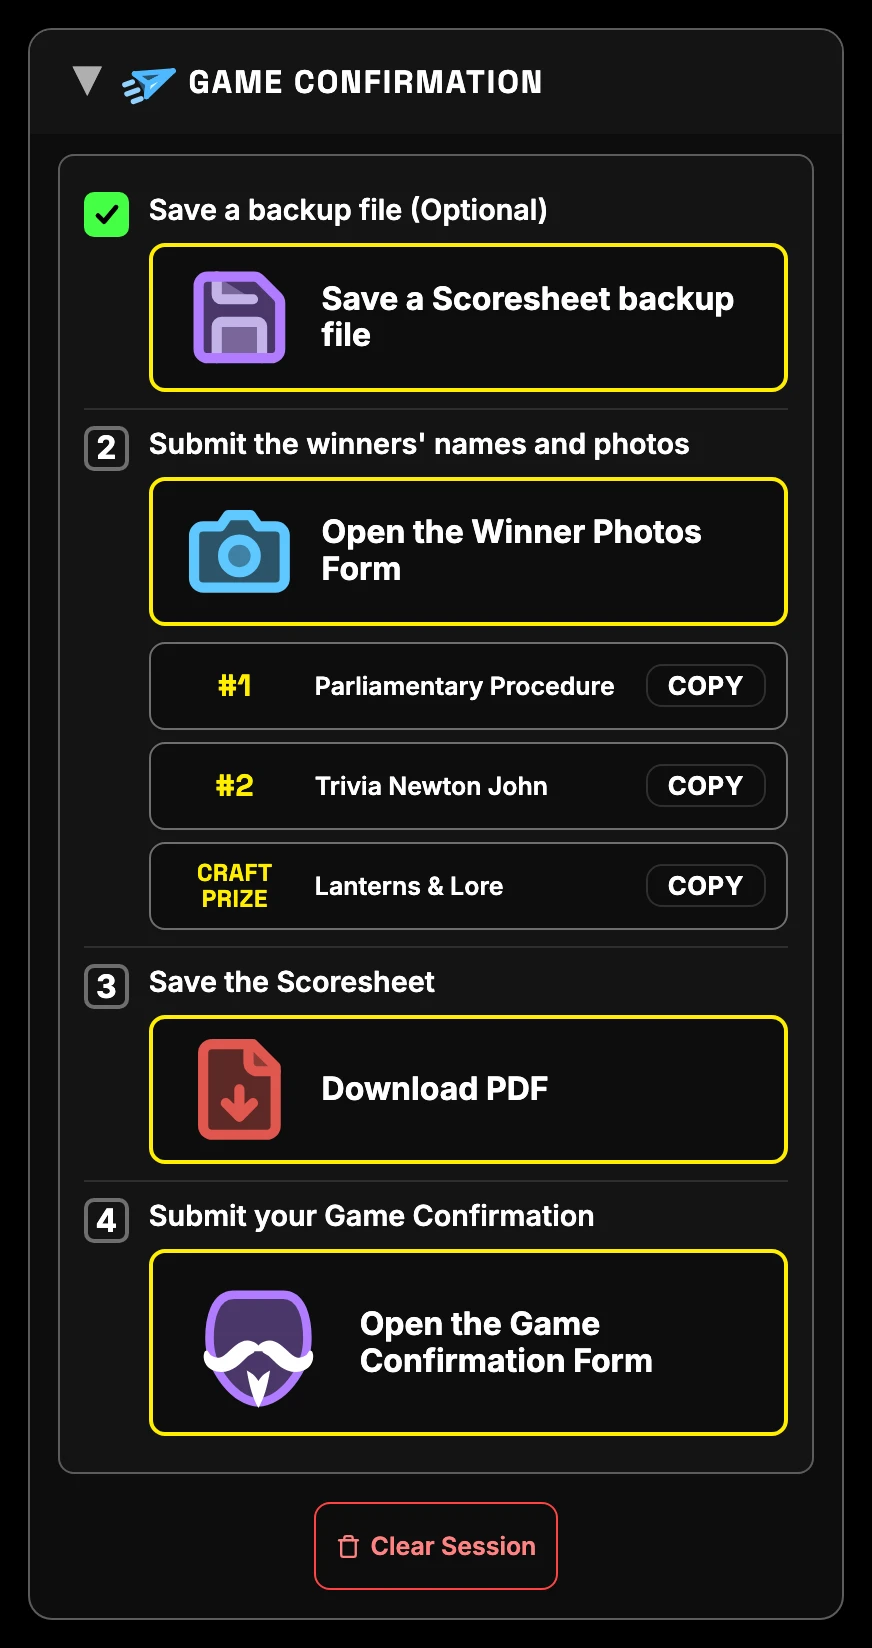
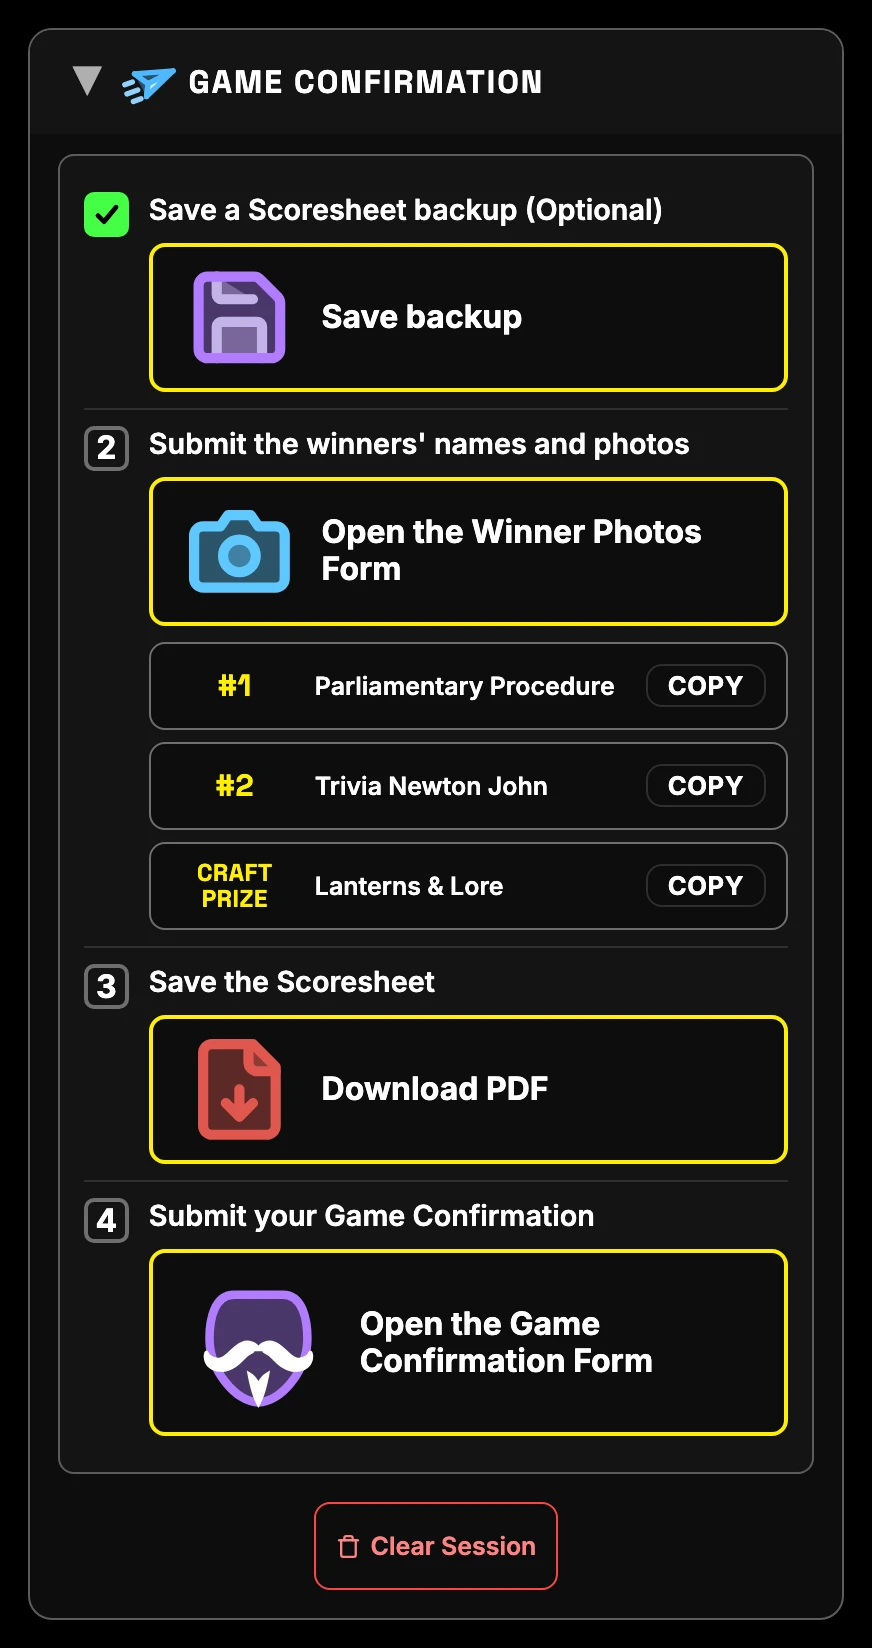
v22.74 Step 1 renamed Save a Scoresheet backup with a Save backup button, FAQ v1.75 screenshots

Changed region(s): [[0.2787, 0.1238, 0.836, 0.2166]]

diff --git a/js/app.js b/js/app.js
@@ -69,8 +69,8 @@ const FIELD_MAX = {
   timezone: 64,
   locale: 35,
 };
-const APP_VERSION = "v22.73"; // #Version Number — bump this manually when you release a new build
-const APP_VERSION_DATE = "Nov 22, 2026 4:48 AM"; // #Version Date — bump alongside APP_VERSION so folks can spot a stale build
+const APP_VERSION = "v22.74"; // #Version Number — bump this manually when you release a new build
+const APP_VERSION_DATE = "Nov 22, 2026 5:01 AM"; // #Version Date — bump alongside APP_VERSION so folks can spot a stale build
 // version.json (repo root) mirrors these two — see checkForUpdate() below for why, and bump it
 // in the same commit as these two or the update-available check starts lying: it'd either miss
 // a real new release (version.json still saying the old version) or nag a host running the
@@ -1109,7 +1109,7 @@ let finishDone = new Set();
 const FINISH_PHOTOS_URL = "https://form.jotform.com/263015326852050";
 const FINISH_CONFIRM_URL = "https://app.jotform.com/261954293403156";
 const FINISH_STEPS = [
-  { k: "backup", label: "Save a backup file (Optional)" },
+  { k: "backup", label: "Save a Scoresheet backup (Optional)" },
   { k: "photos", label: "Submit the winners' names and photos" },
   { k: "pdf", label: "Save the Scoresheet" },
   { k: "confirm", label: "Submit your Game Confirmation" },
@@ -2789,7 +2789,7 @@ function adjPts(ti, d) {
 function finishActionHtml(k) {
   const rect = (icon, label, sub) =>
     `${icon}<span class="finish-rect-text"><span class="finish-rect-label">${label}</span>${sub ? `<span class="finish-rect-sub">${sub}</span>` : ""}</span>`;
-  if (k === "backup") return `<button class="btn finish-rect" onclick="saveToFile()" title="Save a Scoresheet backup file" aria-label="Save a Scoresheet backup file">${rect(ICON_SAVE, "Save a Scoresheet backup file")}</button>`;
+  if (k === "backup") return `<button class="btn finish-rect" onclick="saveToFile()" title="Save backup" aria-label="Save backup">${rect(ICON_SAVE, "Save backup")}</button>`;
   if (k === "pdf") return `<button class="btn finish-rect" onclick="exportPDF()" title="Download PDF" aria-label="Download PDF">${rect(ICON_PDF, "Download PDF")}</button>`;
   if (k === "confirm")
     return `<a class="btn finish-rect jd-upload-btn" href="${FINISH_CONFIRM_URL}" target="_blank" rel="noopener noreferrer" title="Game Confirmation" aria-label="Game Confirmation" onclick="markFinish('confirm')">${rect(ICON_FAWKES, "Open the Game Confirmation Form")}</a>`;

diff --git a/index.html b/index.html
@@ -109,7 +109,7 @@
     </div>
     </div>
     <div class="settings-panel-foot">
-    <div class="settings-meta"><span class="settings-version" id="versionLabel"></span><details class="settings-about"><summary>What's new</summary><div class="about-ver"><b>v22.73</b><ul><li>Game Confirmation: the step 3 button is now simply "Download PDF".</li></ul></div><div class="about-ver"><b>v22.72</b><ul><li>Game Confirmation: the #1/#2/Craft Prize labels moved slightly left, and the backup floppy shows its silver strokes under the purple outline.</li></ul></div><div class="about-ver"><b>v22.71</b><ul><li>Game Confirmation: the subtitle under each step is gone, so the list is shorter.</li></ul></div></details><span class="settings-disclaimer"><svg class="icon-ui" viewBox="0 0 24 24" aria-hidden="true" focusable="false"><path d="m21.73 18-8-14a2 2 0 0 0-3.48 0l-8 14A2 2 0 0 0 4 21h16a2 2 0 0 0 1.73-3"/><path d="M12 9v4"/><path d="M12 17h.01"/></svg> Built with Anthropic's Claude AI — double-check scores &amp; banter yourself.</span></div>
+    <div class="settings-meta"><span class="settings-version" id="versionLabel"></span><details class="settings-about"><summary>What's new</summary><div class="about-ver"><b>v22.74</b><ul><li>Game Confirmation: step 1 is now "Save a Scoresheet backup (Optional)" with a "Save backup" button.</li></ul></div><div class="about-ver"><b>v22.73</b><ul><li>Game Confirmation: the step 3 button is now simply "Download PDF".</li></ul></div><div class="about-ver"><b>v22.72</b><ul><li>Game Confirmation: the #1/#2/Craft Prize labels moved slightly left, and the backup floppy shows its silver strokes under the purple outline.</li></ul></div></details><span class="settings-disclaimer"><svg class="icon-ui" viewBox="0 0 24 24" aria-hidden="true" focusable="false"><path d="m21.73 18-8-14a2 2 0 0 0-3.48 0l-8 14A2 2 0 0 0 4 21h16a2 2 0 0 0 1.73-3"/><path d="M12 9v4"/><path d="M12 17h.01"/></svg> Built with Anthropic's Claude AI — double-check scores &amp; banter yourself.</span></div>
     </div>
   </div>
 </div>

diff --git a/faq/index.html b/faq/index.html
@@ -1327,7 +1327,7 @@
             width="872" height="1648" decoding="async"
             src="screenshots/export-bar.webp"
             data-shot-base="export-bar"
-            alt="Game Confirmation section as one numbered list: Save a backup file (Optional), Submit the winners' names and photos with Copy buttons for the top teams and the craft prize winner under it, Save the Scoresheet, and Submit your Game Confirmation"
+            alt="Game Confirmation section as one numbered list: Save a Scoresheet backup (Optional), Submit the winners' names and photos with Copy buttons for the top teams and the craft prize winner under it, Save the Scoresheet, and Submit your Game Confirmation"
             onerror="faqShotFallback(this,'Game Confirmation section — the four numbered steps')"
           />
         </div>
@@ -1349,7 +1349,7 @@
           <div class="faq-a">
             <p>Scroll to <strong>Game Confirmation</strong> and work down the numbered list:</p>
             <ol>
-              <li><strong>Save a backup file (Optional).</strong> Saves the game so you can reopen it later, just in case. Skip it if you don't need one.</li>
+              <li><strong>Save a Scoresheet backup (Optional).</strong> Saves the game so you can reopen it later, just in case. Skip it if you don't need one.</li>
               <li><strong>Submit the winners' names and photos.</strong> Tap <strong>Open the Winner Photos Form</strong> to open the form in a new tab, then tap <strong>Copy</strong> under it for each team name you need to paste in.</li>
               <li><strong>Save the Scoresheet.</strong> Tap <strong>Download PDF</strong> to save the finished scoresheet to your device.</li>
               <li><strong>Submit your Game Confirmation.</strong> Tap <strong>Open the Game Confirmation Form</strong> to open the form in a new tab, where you submit the PDF you saved.</li>

diff --git a/tests/v22-47.test.js b/tests/v22-47.test.js
@@ -46,7 +46,7 @@ describe("v22.47 closing tutorial steps and FAQ", () => {
       const item = window.document.getElementById("q-how-do-i-wrap-up-a-finished-game");
       assert.ok(item, "wrap-up FAQ item missing");
       const steps = [...item.querySelectorAll("ol > li > strong:first-child")].map((s) => s.textContent);
-      const pos = ["Save a backup file", "Submit the winners", "Save the Scoresheet", "Submit your Game Confirmation"].map((t) => steps.findIndex((x) => x.startsWith(t)));
+      const pos = ["Save a Scoresheet backup", "Submit the winners", "Save the Scoresheet", "Submit your Game Confirmation"].map((t) => steps.findIndex((x) => x.startsWith(t)));
       assert.deepEqual(pos, [0, 1, 2, 3], "steps missing or out of order: " + steps);
       assert.match(item.textContent, /Optional/);
       assert.match(item.textContent, /winners. names and photos/);

diff --git a/tests/v22-54.test.js b/tests/v22-54.test.js
@@ -24,6 +24,6 @@ describe("v22.54 Game Submission section", () => {
     const steps = [...body.querySelectorAll("ol.finish-list > li")];
     assert.equal(steps.length, 4);
     const act = (li) => li.querySelector(".finish-rect").textContent.trim();
-    assert.deepEqual(steps.map(act), ["Save a Scoresheet backup file", "Open the Winner Photos Form", "Download PDF", "Open the Game Confirmation Form"]);
+    assert.deepEqual(steps.map(act), ["Save backup", "Open the Winner Photos Form", "Download PDF", "Open the Game Confirmation Form"]);
   });
 });

diff --git a/faq/js/faq.js b/faq/js/faq.js
@@ -4,7 +4,7 @@
 // #versionLabel element. Here the same string feeds two spots — the page footer and the
 // Settings panel's settings-meta row — so bumping a release only means editing these two
 // constants instead of hunting down every place the version text is written out by hand.
-const FAQ_VERSION = "v1.74";
+const FAQ_VERSION = "v1.75";
 const FAQ_VERSION_DATE = "22 Nov 2026";
 
 // Same Lucide sun/moon geometry as the main app's THEME_ICON_SUN/MOON (js/app.js), tagged

diff --git a/faq/screenshots/README.md b/faq/screenshots/README.md
@@ -51,7 +51,7 @@ comparison it exists to make.
 | `craft-prize.webp` | The Craft Prize Drawing section open pre-draw, showing the Exclude Top / Drumroll-seconds steppers and the square **Start Drumroll** button (v19.60). | Craft Prize Drawing |
 | `craft-prize-drumroll.webp` | The Craft Prize drumroll actively playing, right after clicking Start Drumroll — the spinning name and countdown bar. | Craft Prize Drawing |
 | `craft-prize-winner.webp` | The finished draw — winning team announced, with the **Clear** button next to the result and the Winner Announcement Script below. | Craft Prize Drawing |
-| `export-bar.webp` | The Game Confirmation section as one numbered list — Save a backup file (Optional), Submit the winners' names and photos (📷 form button with the Copy buttons for the top teams and craft prize winner under it), Save the Scoresheet (Download PDF), Submit your Game Confirmation (🎭 form button), then Clear Session. Each step button is a wide rectangle with a gold outline and the picto on the left (v22.73). Dark + light. | Exporting |
+| `export-bar.webp` | The Game Confirmation section as one numbered list — Save a Scoresheet backup (Optional), Submit the winners' names and photos (📷 form button with the Copy buttons for the top teams and craft prize winner under it), Save the Scoresheet (Download PDF), Submit your Game Confirmation (🎭 form button), then Clear Session. Each step button is a wide rectangle with a gold outline and the picto on the left (v22.74). Dark + light. | Exporting |
 | `pdf-export.webp` | The downloaded PDF scoresheet — same header plus full standings. | Exporting |
 | `jd-upload-form.webp` | The Game Confirmation page, opened in its own browser tab. | Exporting |
 | `sound-test-buttons.webp` | The Craft Prize Drawing's Test Sounds bar — the square Roll / Fade out / Crash / Horn buttons (Advanced Settings → Manual Drumroll Control **and** Sound Test Buttons both on). | Tips & Tricks |

diff --git a/CHANGELOG.md b/CHANGELOG.md
@@ -14,6 +14,11 @@ Theme Night is a major change, so its first release (commit subject "v19.78") is
 v20.0 here and in the app, and the follow-ups after it are v20.1 through v20.6 (commit subjects
 v19.79 through v19.84; git history isn't rewritten).
 
+## v22.74 - 2026-11-22
+
+- **Step 1 renamed "Save a Scoresheet backup (Optional)"** and its button is now "Save backup".
+- FAQ v1.75: step name updated, regenerated `export-bar` screenshots.
+
 ## v22.73 - 2026-11-22
 
 - **Step 3 button renamed "Download PDF"** (one line).

diff --git a/faq/CHANGELOG.md b/faq/CHANGELOG.md
@@ -2,6 +2,12 @@
 
 All notable changes to the Scorekeeper FAQ site are documented here.
 
+## [1.75] - 22 Nov 2026
+
+### Changed
+
+- **Game Confirmation:** step 1 is "Save a Scoresheet backup (Optional)" in the wrap-up steps and alt text, and the `export-bar` screenshots (dark + light) are regenerated for app v22.74.
+
 ## [1.74] - 22 Nov 2026
 
 ### Changed
